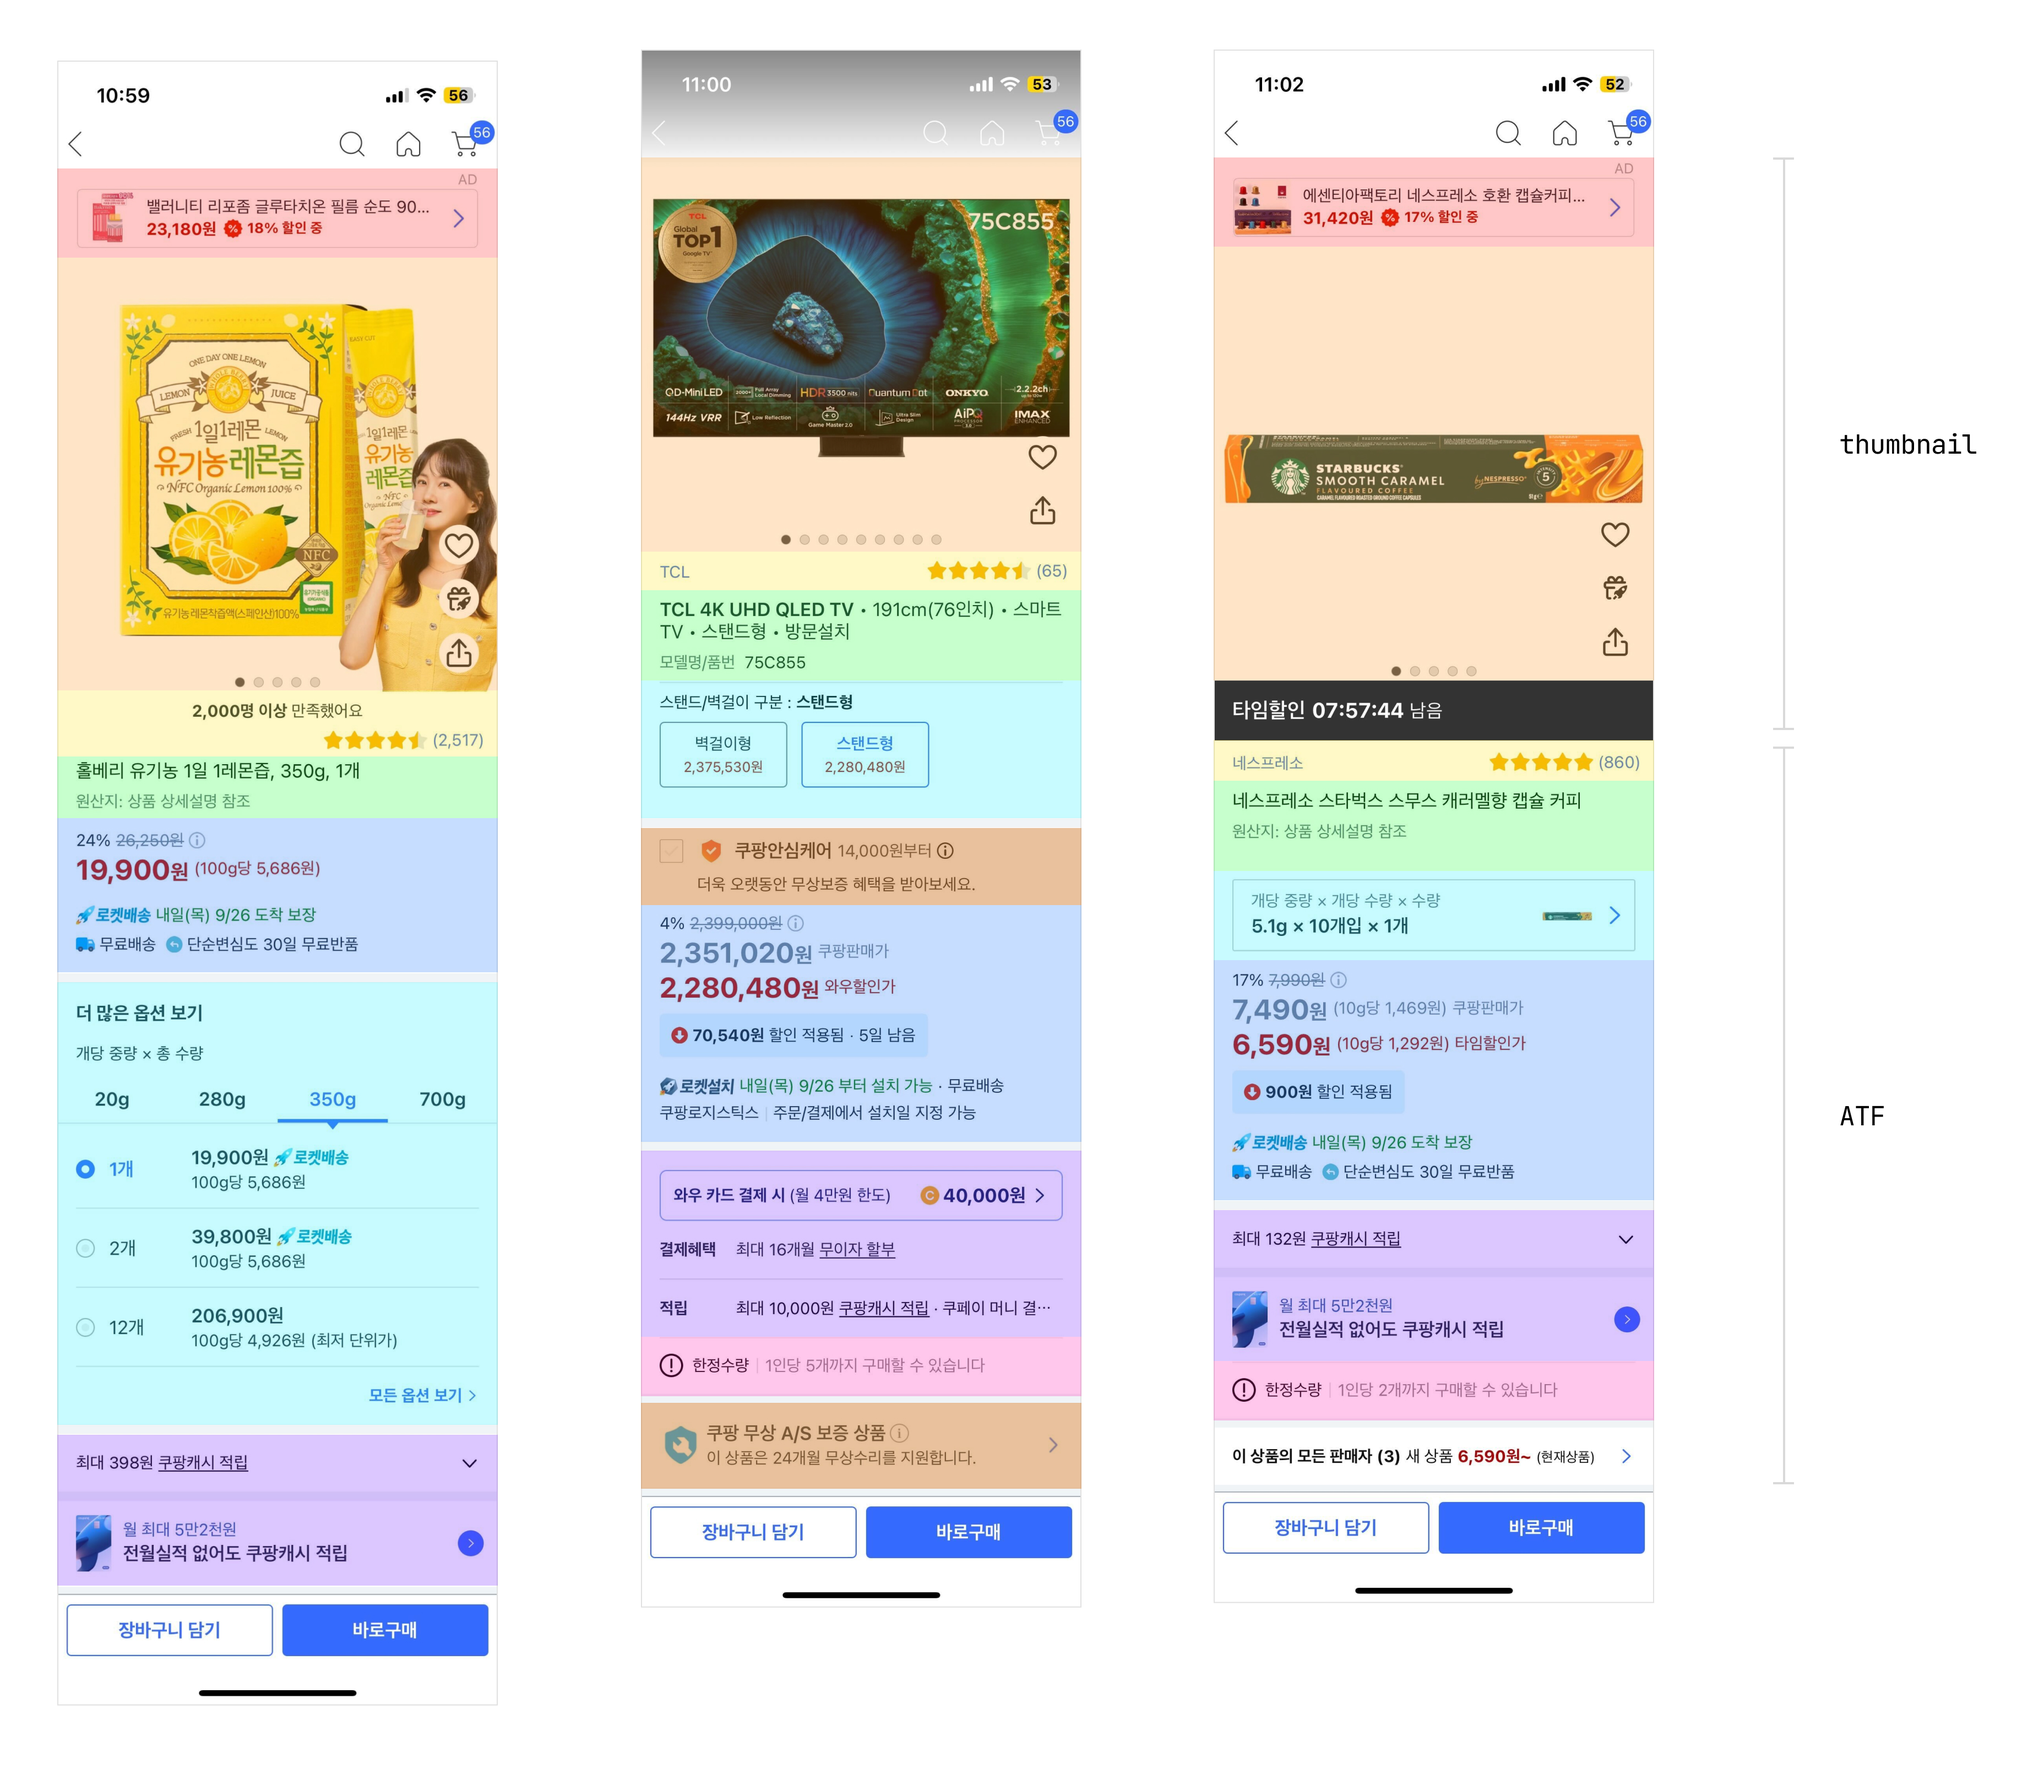
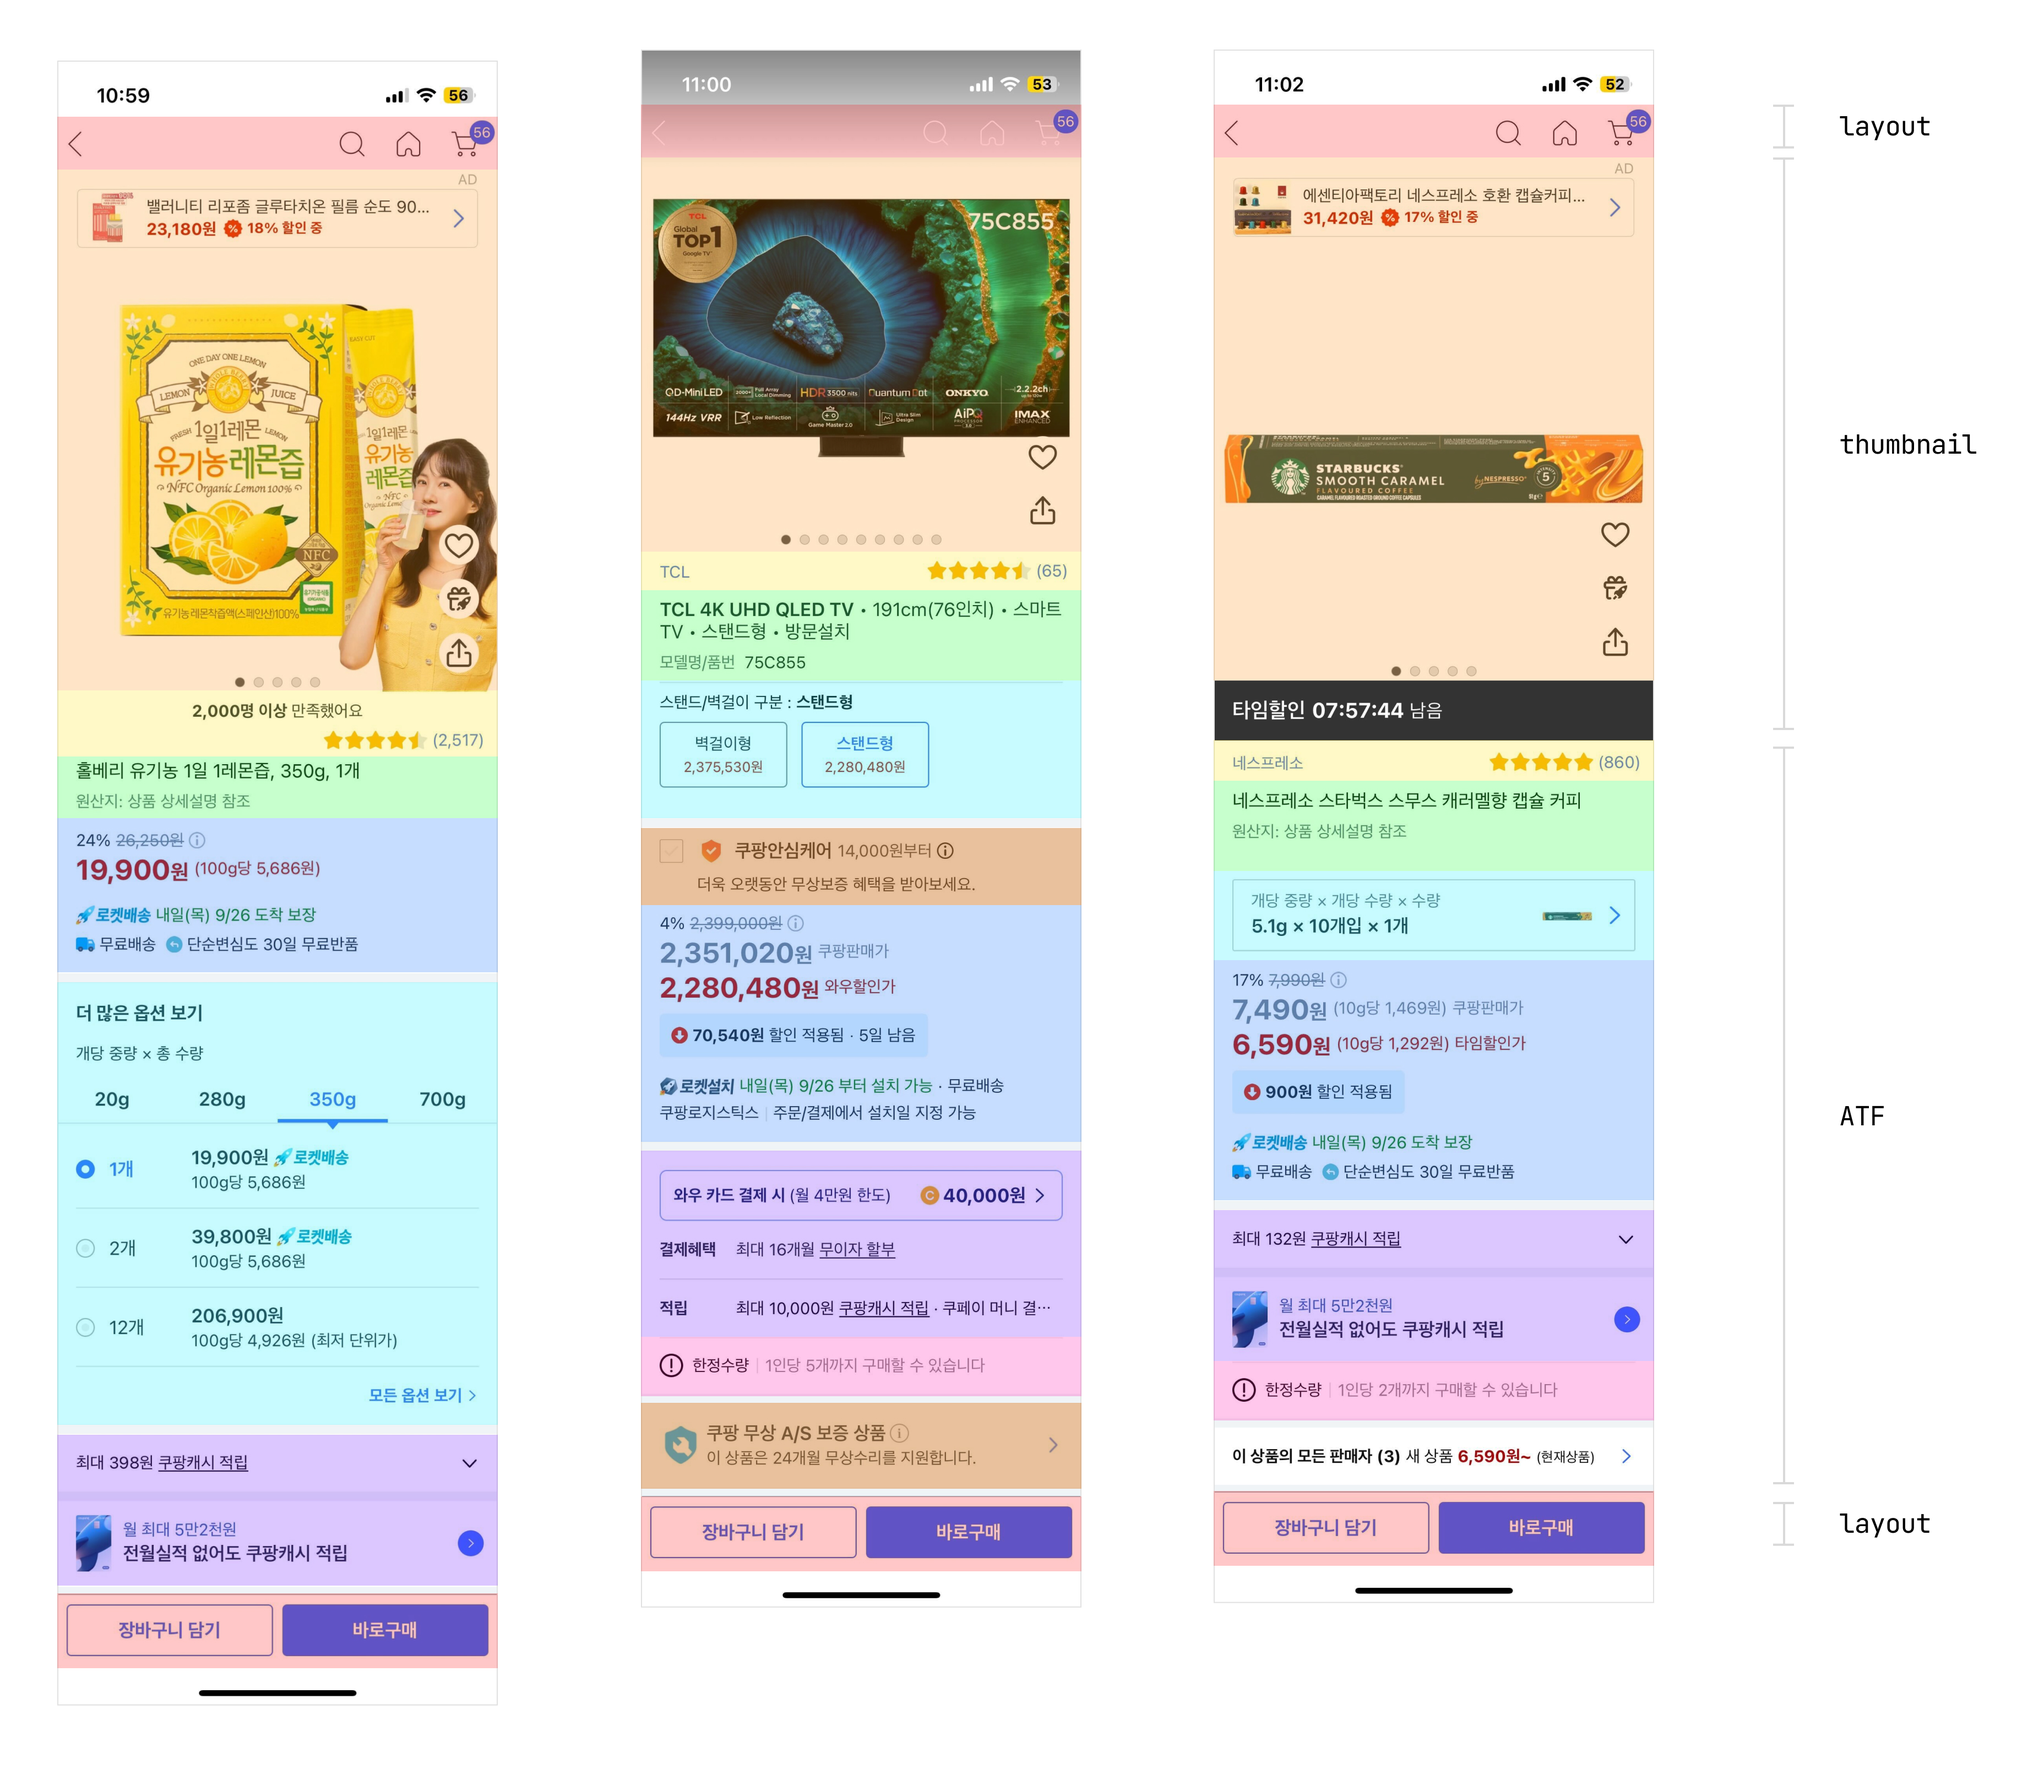
oop page updated

diff --git a/src/pages/oop/oopDevelopment/oopDevelopmentPage.tsx b/src/pages/oop/oopDevelopment/oopDevelopmentPage.tsx
@@ -48,17 +48,21 @@ export default function OopDevelopmentPage() {
         }}
       />
       <p>
-        SDP 페이지는 썸네일, ATF, BTF로 나눌 수 있다. 그 중에서 썸네일 + ATF
-        영역을 가상으로 설계해보고자 한다.
+        SDP 페이지는 썸네일, ATF, BTF로 나눌 수 있다. 페이지에서 공통적으로
+        가지는 네비게이션과 탭바는 레이아웃으로 분리하고 썸네일과 BTF 영역은
+        모두 동일하게 데이터만 제공하면 동일한 뷰를 가지는 구조이다.
+        카테고리별로 달라지는 부분 ATF 영역으로 각 카테고리 별로 조합하여 사용할
+        수 있도록 하고자 한다. 먼저 모든 상품 카테고리의 틀이 될 수 있는
+        레이아웃을 만들었다.
       </p>
-      <p>먼저 모든 상품 카테고리의 틀이 될 수 있는 레이아웃을 만들었다.</p>
       <CodeBlock
         codeSnippet={
-          "export default function SdpLayout({ thumbnail, category, isTimeDeal, children }) {\n" +
+          "export default function SdpLayout({ thumbnail, children, btf }) {\n" +
           "  return (\n" +
-          "    <Layout> // 네비게이션과 CTA가 포함된 레이아웃\n" +
-          "      <Thumbnail thumbnail={thumbnail} ads={category} isTimeDeal={isTimeDeal} />\n" +
+          "    <Layout>\n" +
+          "      <Thumbnail thumbnail={thumbnail} />\n" +
           "      <Atf>{children}</Atf>\n" +
+          "      <Btf btf={btf}/ >\n" +
           "    </Layout>\n" +
           "  );\n" +
           "}"
@@ -75,85 +79,43 @@ export default function OopDevelopmentPage() {
       </p>
       <CodeBlock
         codeSnippet={
-          "export function HealthSdp({\n" +
-          "  thumbnail,\n" +
-          "  isTimeDeal,\n" +
-          "  brand,\n" +
-          "  review,\n" +
-          "  title,\n" +
-          "  sizes,\n" +
-          "  price,\n" +
-          "  shipment,\n" +
-          "}) {\n" +
+          "export function HealthSdp(props) {\n" +
           "  return (\n" +
-          "    <Sdp\n" +
-          "      thumbnail={thumbnail}\n" +
-          "      category={CATEGORY.Health}\n" +
-          "      isTimeDeal={isTimeDeal}\n" +
-          "    >\n" +
-          "      <Reivew.Default brand={brand} review={review} />\n" +
-          "      <Title title={title} />\n" +
-          "      <Options.Size options={sizes} />\n" +
-          "      <PriceAndShipment price={price} shipment={shipment} />\n" +
+          "    <Sdp thumbnail={props.thumbnail} btf={props.btf}>\n" +
+          "      <Reivew.Default brand={props.brand} review={props.review} />\n" +
+          "      <Title title={props.title} />\n" +
+          "      <Options.Size options={props.sizes} />\n" +
+          "      <PriceAndShipment price={props.price} shipment={props.shipment} />\n" +
           "      <PaymentBenefit.CoupangCash />\n" +
           "    </Sdp>\n" +
           "  );\n" +
           "}\n" +
           "\n" +
-          "export function ApplianceSdp({\n" +
-          "  thumbnail,\n" +
-          "  isTimeDeal,\n" +
-          "  brand,\n" +
-          "  review,\n" +
-          "  title,\n" +
-          "  displaySizes,\n" +
-          "  price,\n" +
-          "  shipment,\n" +
-          "  quantity,\n" +
-          "}) {\n" +
+          "export function ApplianceSdp(props) {\n" +
           "  return (\n" +
-          "    <Sdp\n" +
-          "      thumbnail={thumbnail}\n" +
-          "      category={CATEGORY.Appliance}\n" +
-          "      isTimeDeal={isTimeDeal}\n" +
-          "    >\n" +
-          "      <Reivew.Default brand={brand} review={review} />\n" +
-          "      <Title title={title} />\n" +
-          "      <Options.Tv options={displaySizes} />\n" +
+          "    <Sdp thumbnail={props.thumbnail} btf={props.btf}>\n" +
+          "      <Reivew.Default brand={props.brand} review={props.review} />\n" +
+          "      <Title title={props.title} />\n" +
+          "      <Options.Tv options={props.displaySizes} />\n" +
           "      <Insuarance.Care />\n" +
-          "      <PriceAndShipment price={price} shipment={shipment} />\n" +
+          "      <PriceAndShipment price={props.price} shipment={props.shipment} />\n" +
           "      <PaymentBenefit.CreditCard />\n" +
-          "      <Quantity quantity={quantity} />\n" +
+          "      <Quantity quantity={props.quantity} />\n" +
           "      <Insuarance.Info />\n" +
           "    </Sdp>\n" +
           "  );\n" +
           "}\n" +
           "\n" +
-          "export function CoffeeSdp({\n" +
-          "  thumbnail,\n" +
-          "  isTimeDeal,\n" +
-          "  brand,\n" +
-          "  review,\n" +
-          "  title,\n" +
-          "  sizes,\n" +
-          "  price,\n" +
-          "  shipment,\n" +
-          "  quantity,\n" +
-          "  sku,\n" +
-          "}) {\n" +
+          "export function CoffeeSdp(props) {\n" +
           "  return (\n" +
-          "    <Sdp\n" +
-          "      thumbnail={thumbnail}\n" +
-          "      category={CATEGORY.Coffee}\n" +
-          "      isTimeDeal={isTimeDeal}\n" +
-          "    >\n" +
-          "      <Reivew.Default brand={brand} review={review} />\n" +
-          "      <Title title={title} />\n" +
-          "      <Options.Size options={sizes} />\n" +
-          "      <PriceAndShipment price={price} shipment={shipment} />\n" +
+          "    <Sdp thumbnail={props.thumbnail} btf={props.btf}>\n" +
+          "      <Reivew.Default brand={props.brand} review={props.review} />\n" +
+          "      <Title title={props.title} />\n" +
+          "      <Options.Size options={props.sizes} />\n" +
+          "      <PriceAndShipment price={props.price} shipment={props.shipment} />\n" +
           "      <PaymentBenefit.CoupangCash />\n" +
-          "      <Quantity quantity={quantity} />\n" +
-          "      <OtherSellers Sku={sku} />\n" +
+          "      <Quantity quantity={props.quantity} />\n" +
+          "      <OtherSellers Sku={props.sku} />\n" +
           "    </Sdp>\n" +
           "  );\n" +
           "}"

diff --git a/dist/index.html b/dist/index.html
@@ -6,7 +6,7 @@
     <meta name="viewport" content="width=device-width, initial-scale=1.0" />
     
     <title>the Basics 101</title>
-    <script type="module" crossorigin src="/basics-101/assets/index-23eda595.js"></script>
+    <script type="module" crossorigin src="/basics-101/assets/index-fae4cd64.js"></script>
     <link rel="stylesheet" href="/basics-101/assets/index-a251283f.css">
   </head>
   <body>
